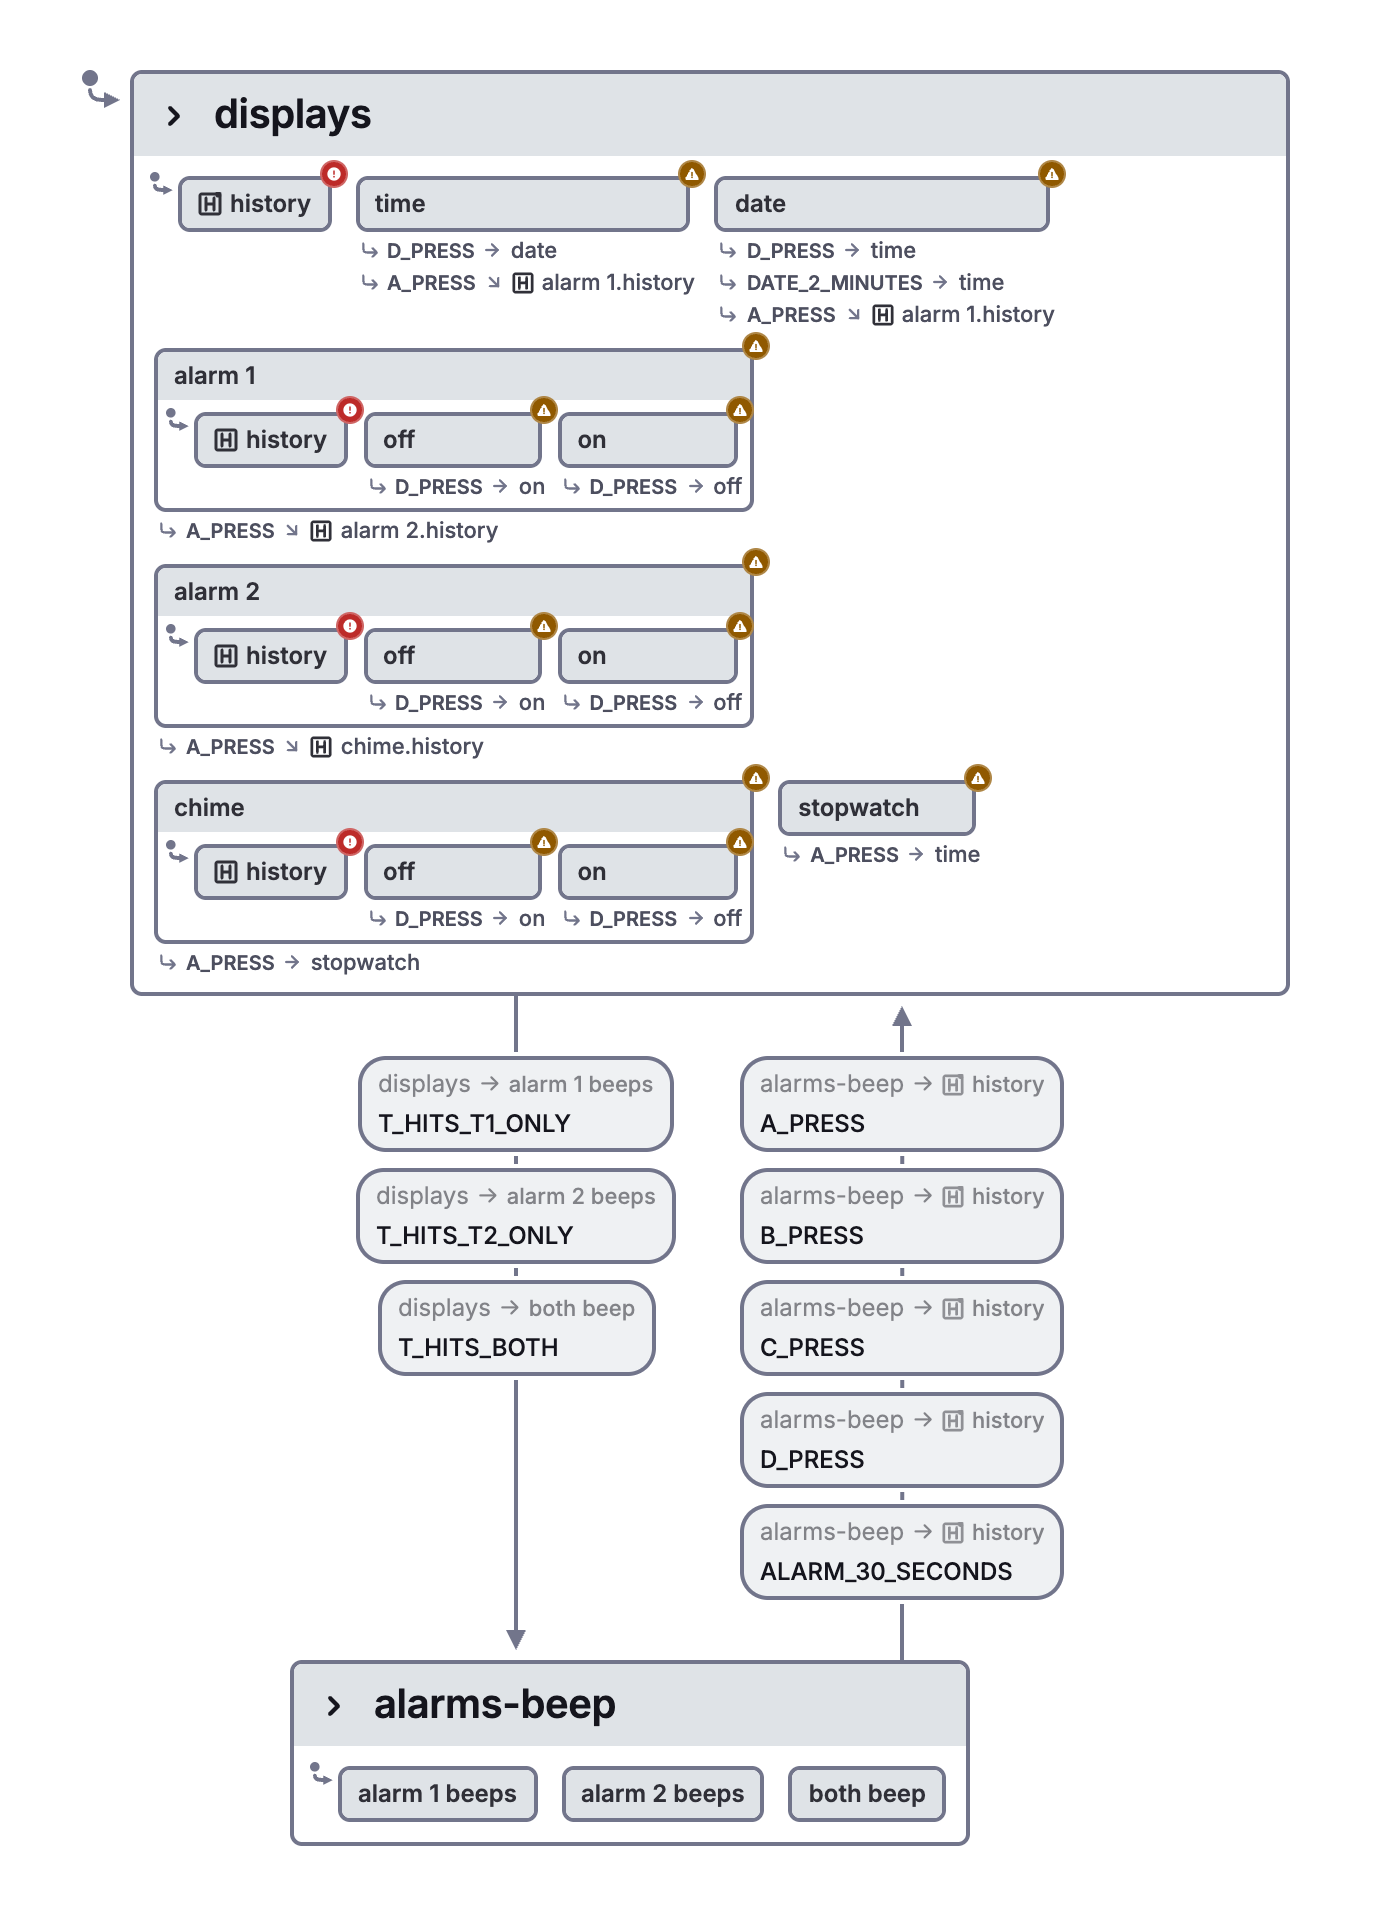
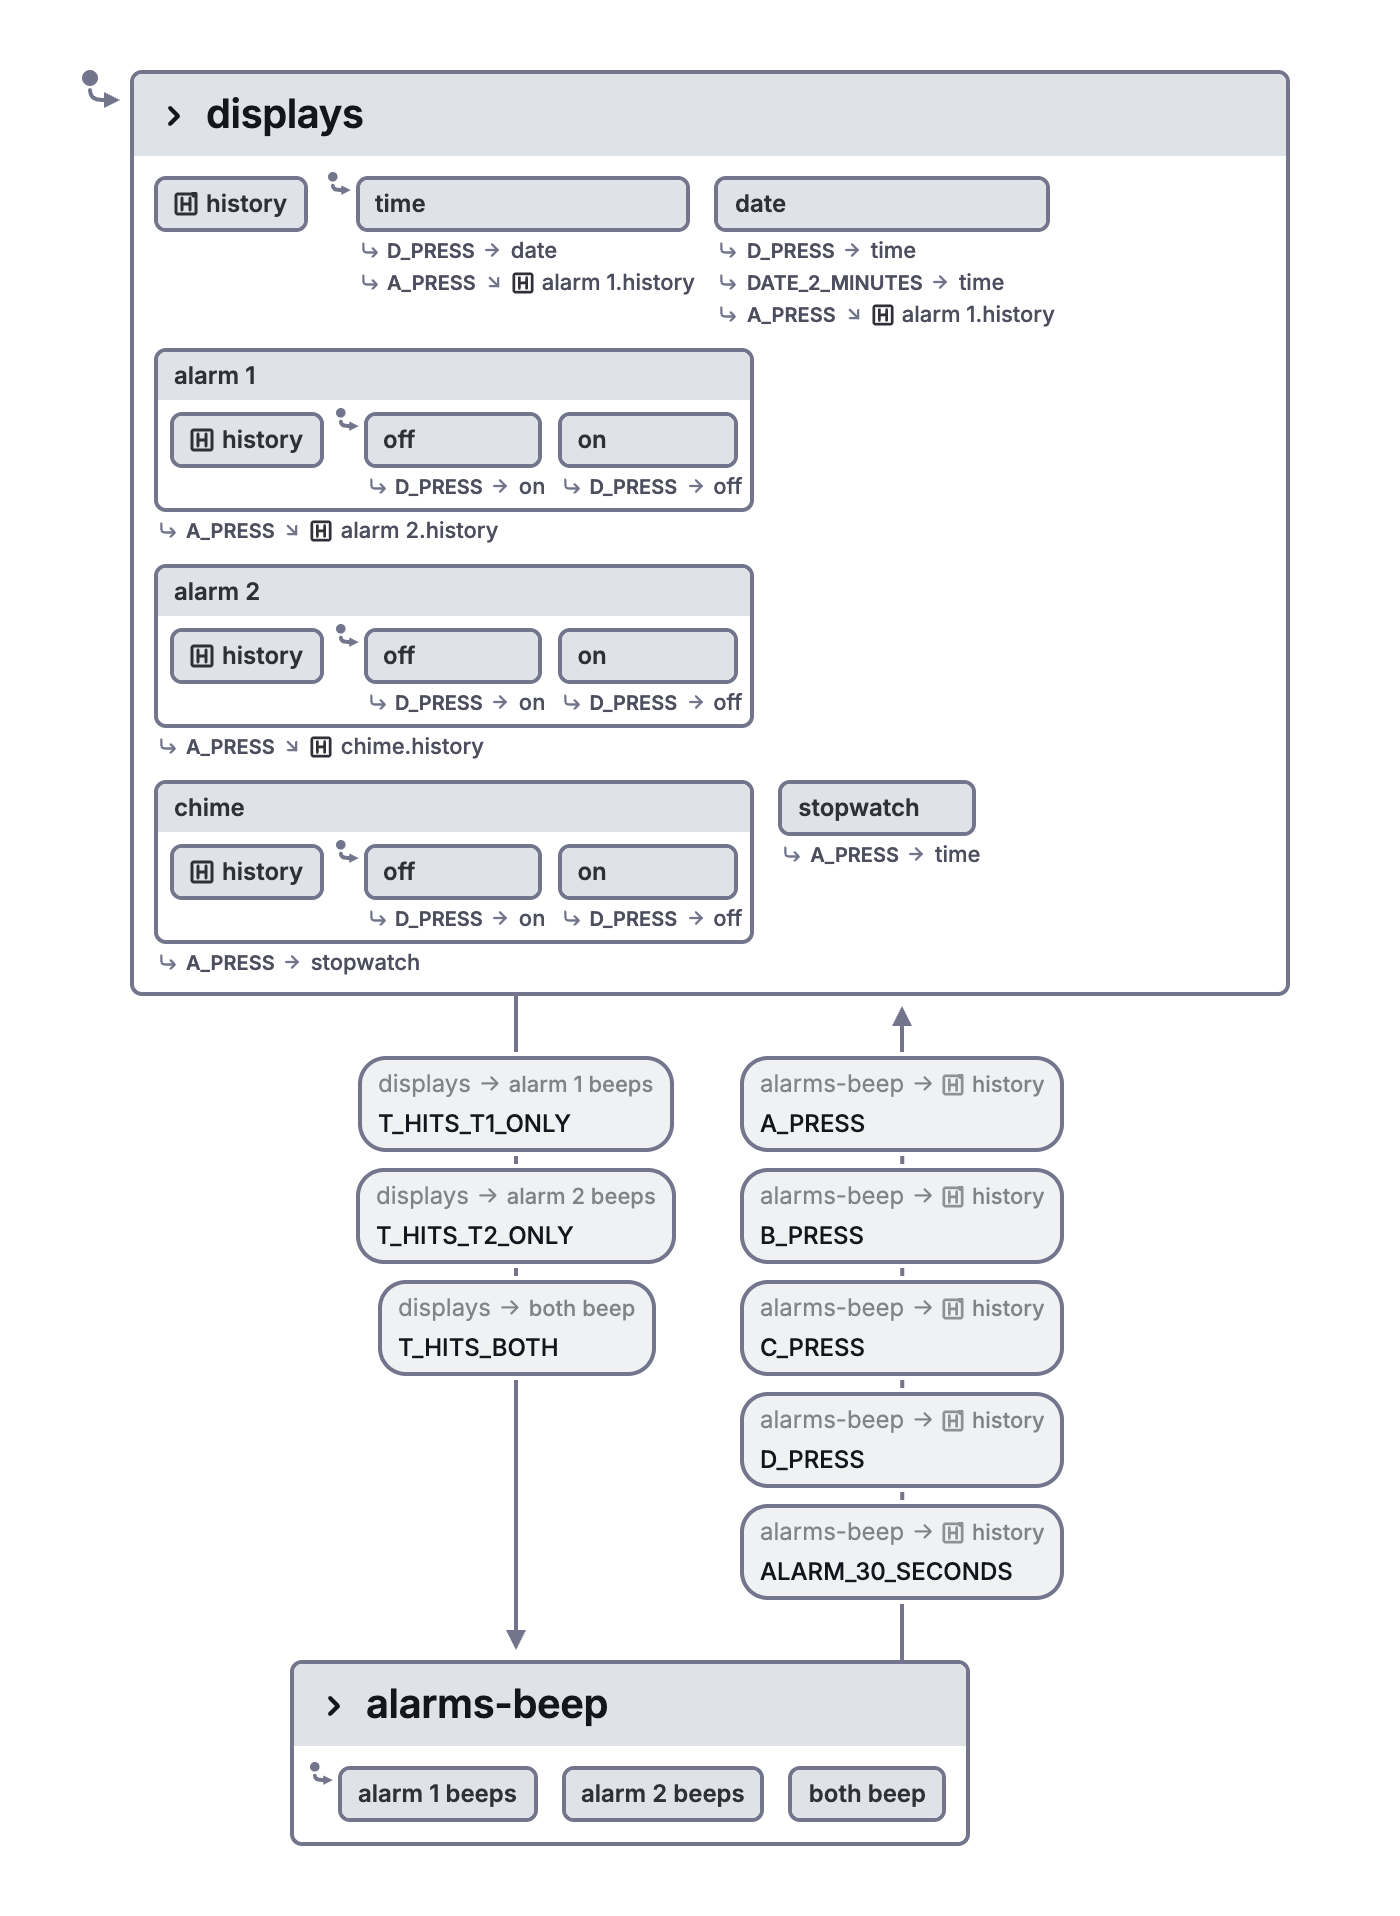
Fix watch example defaults and use canvas-only embeds

diff --git a/lib/statechart-examples.ts b/lib/statechart-examples.ts
@@ -33,7 +33,11 @@ export function statechartExampleURL(example: StatechartExampleId): string {
     machine,
     format: 'xstate-json',
     theme: 'light',
-    panels: 'structure,simulation',
+    chrome: 'none',
+    canvasSlots: 'viewportControls,simulationControls',
+    topBar: '0',
+    expanded: '1',
+    panels: 'none',
   }).toString();
   return url.toString();
 }

diff --git a/public/assets/harel-statecharts/README.md b/public/assets/harel-statecharts/README.md
@@ -23,11 +23,12 @@ editor's compact child-state view renders many child transitions inline.
 `lib/harel-statechart-examples.ts` registers these definitions and capture
 sizes. `StatechartExample` keeps the screenshot visible and mounts the anonymous,
 read-only editor only when its disclosure is opened. It enables simulation,
-parent-state expansion/collapse, and pan/zoom. Structure and simulation panels
-start closed so the diagram has room. The source is
+parent-state expansion/collapse, and pan/zoom. Parents start expanded. The
+command bar, breadcrumbs, and side panels are hidden. The source is
 UTF-8 JSON encoded as base64url in the fragment, with `format=xstate-json`,
-`panels=structure,simulation` and query `activePanels=`. Full editor chrome
-exposes the controls while `/viz` keeps editing disabled. The source tag is
+`chrome=none`, `canvasSlots=viewportControls,simulationControls`, `topBar=0`,
+`expanded=1`, and `panels=none`. The canvas controls remain usable while `/viz`
+keeps editing disabled. The source tag is
 `docs-harel-statecharts`. Static screenshots retain the plain light capture view
 (`chrome=plain`, `theme=light`, `interactive=1`, `panels=none`).
 
@@ -60,6 +61,10 @@ the paper's combined scenario is supplied in the watch check.
 The paper's `clear-history(main*)` is a host reset boundary here. Battery
 removal/death must stop and replace the actor before reinsertion. Sending both
 battery events to the same actor does not establish history erasure.
+
+Ordinary first visits enter concrete initial children. Transitions that return
+to a previous visit target history explicitly. This avoids using a history node
+as an initial state, which produced misleading unreachable-state diagnostics.
 
 History navigation adds explicit `ENTER`, `LEAVE`, and `GO_*` events absent
 from the structural original figures. The update and field-selection models

diff --git a/public/assets/statecharts/README.md b/public/assets/statecharts/README.md
@@ -6,9 +6,9 @@ is used by the guide's read-only view and the corresponding screenshot.
 Screenshots captured from **https://editor.stately.ai/viz** on October 31, 2026.
 Source format: `xstate-json`; URL fragment contains the base64url-encoded JSON.
 View options: `chrome=plain`, `theme=light`, `panels=none`. The read-only editor
-links use full chrome,
-`panels=structure,simulation`, and query `activePanels=` so simulation and parent
-expansion/collapse are available while panels start closed. No customer models
+links use `chrome=none`, `canvasSlots=viewportControls,simulationControls`,
+`topBar=0`, `expanded=1`, and `panels=none`. Canvas simulation and parent
+expansion/collapse are available without a command bar or side panels. No customer models
 or account saves were used. Screenshots are unmodified browser captures, cropped to the diagram.
 
 | Screenshot                | Browser crop (x, y, width, height) |

diff --git a/README.md b/README.md
@@ -294,8 +294,9 @@ docs are not indexed twice.
 `StatechartExample` renders a local screenshot, descriptive alt text, and a
 caption in the initial HTML. Opening its keyboard-accessible disclosure loads
 an anonymous, read-only `/viz` editor with simulation, parent-state expansion
-and collapse, and pan and zoom. The structure and simulation panels are available
-but start closed. The screenshot stays
+and collapse, and pan and zoom. All parents start expanded. Zoom and simulation
+controls stay on the canvas;
+the command bar, breadcrumbs, and side panels are hidden. The screenshot stays
 visible if the embed fails. Without JavaScript, the screenshot and direct
 example link still work.
 
